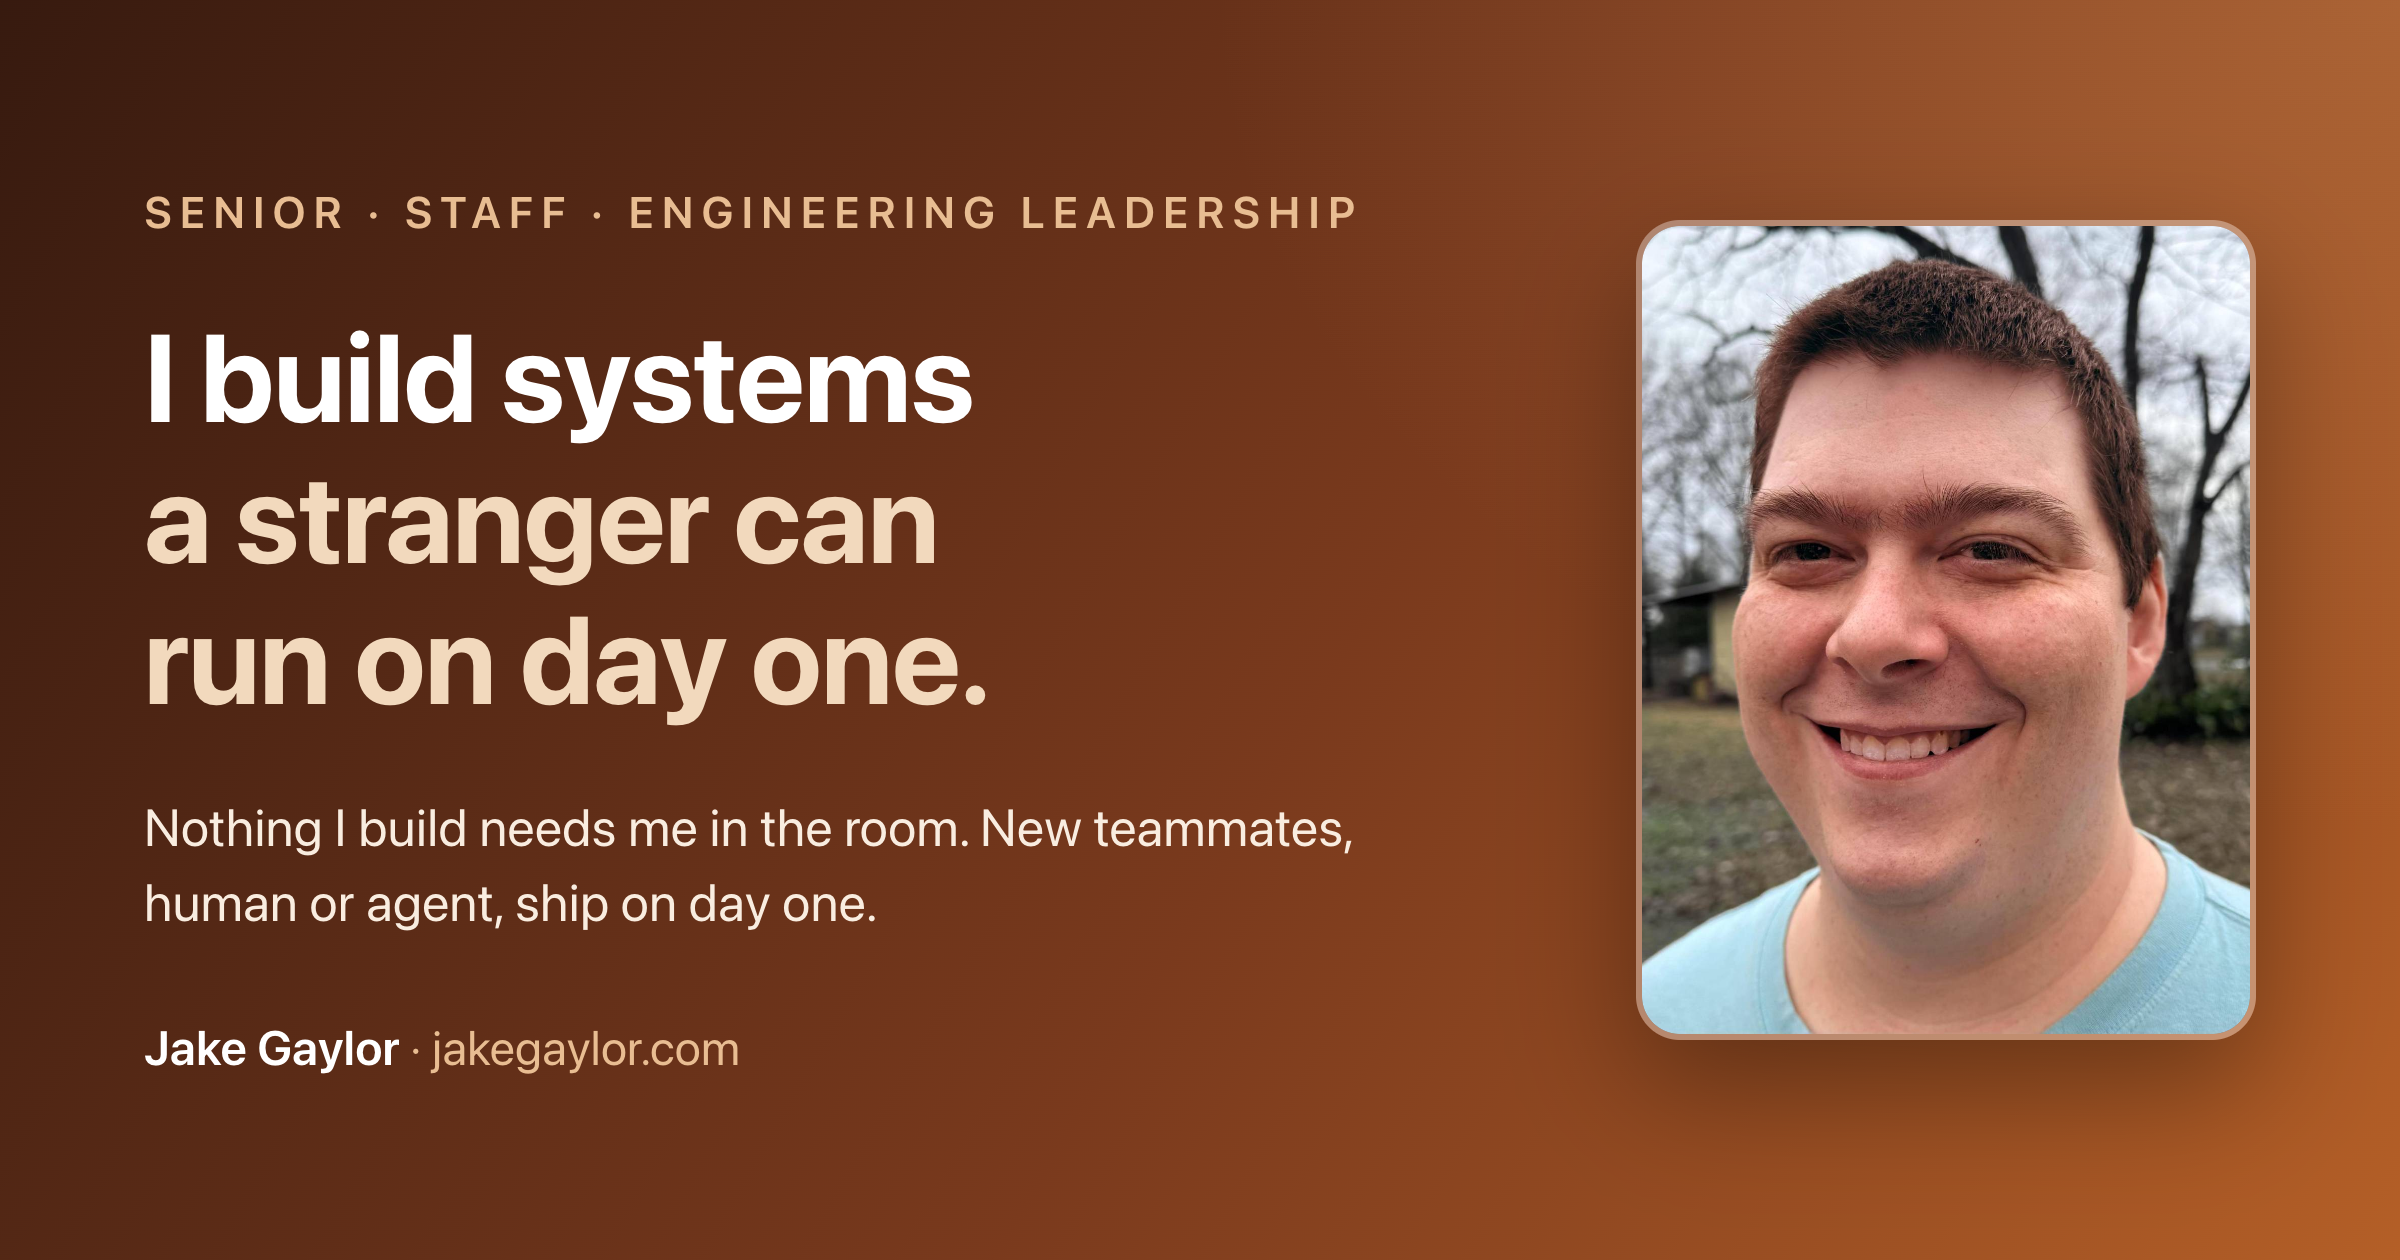
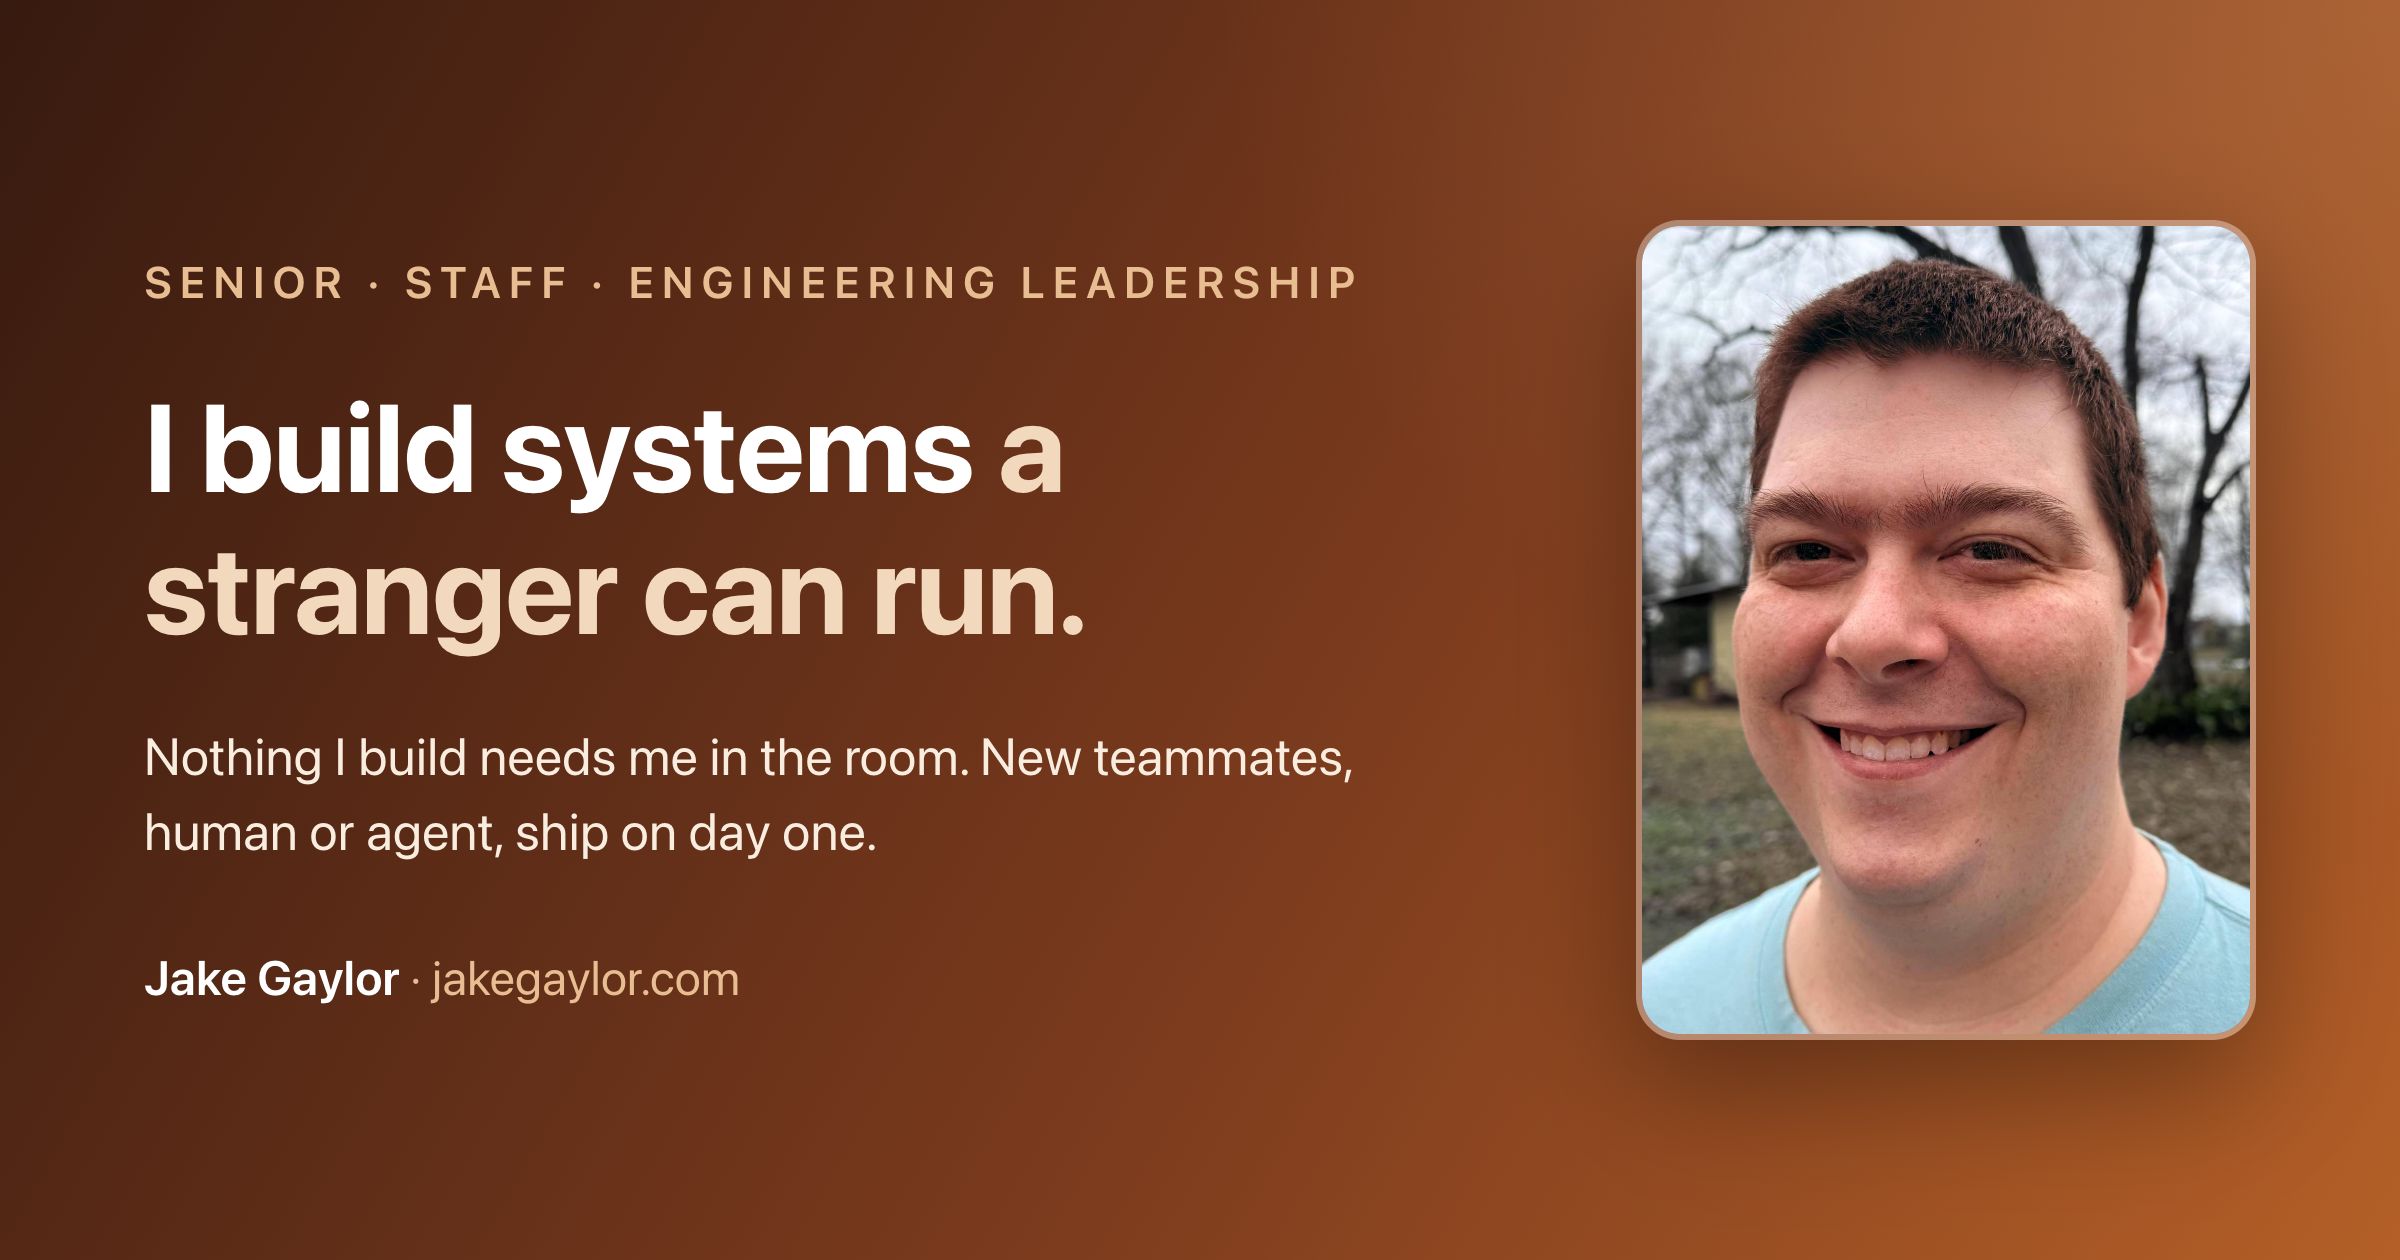
home: headline trims to a stranger can run, day one lands once
The subheader supplies the deadline, so the H1, meta descriptions,
and og-card (v=7) drop the duplicate ending.

diff --git a/_includes/layouts/home.html b/_includes/layouts/home.html
@@ -9,10 +9,10 @@
       front matter; defaults below keep the homepage values as the fallback.
     {%- endcomment -%}
     {%- assign pageTitle = title | default: "Jake Gaylor · builds systems a stranger can run on day one" -%}
-    {%- assign pageDescription = description | default: "Jake Gaylor is a staff-level platform, DevEx, and AI-infrastructure engineer who builds systems a stranger can run on day one. Nothing he builds needs him in the room. New teammates, human or agent, ship on day one. Open to senior, staff, and engineering leadership roles." -%}
-    {%- assign pageSocialDescription = socialDescription | default: "I build systems a stranger can run on day one. Nothing I build needs me in the room. New teammates, human or agent, ship on day one. The receipts are on the page." -%}
+    {%- assign pageDescription = description | default: "Jake Gaylor is a staff-level platform, DevEx, and AI-infrastructure engineer who builds systems a stranger can run. Nothing he builds needs him in the room. New teammates, human or agent, ship on day one. Open to senior, staff, and engineering leadership roles." -%}
+    {%- assign pageSocialDescription = socialDescription | default: "I build systems a stranger can run. Nothing I build needs me in the room. New teammates, human or agent, ship on day one. The receipts are on the page." -%}
     {%- assign pageCanonical = canonicalPath | default: page.url -%}
-    {%- assign pageOgImage = og_image | default: "/images/og-card.jpg?v=6" -%}
+    {%- assign pageOgImage = og_image | default: "/images/og-card.jpg?v=7" -%}
     {%- assign pageOgImageAlt = og_image_alt | default: "Jake Gaylor" -%}
     <title>{{ pageTitle }}</title>
     <meta name="description" content="{{ pageDescription }}" />

diff --git a/index.html b/index.html
@@ -22,7 +22,7 @@ layout: layouts/home.html
     </p>
     <h1 class="text-3xl md:text-5xl font-bold mb-3 leading-tight">
       I build systems
-      <span class="text-transparent bg-clip-text bg-gradient-to-r from-brand-200 to-white"> a stranger can run on day one.</span>
+      <span class="text-transparent bg-clip-text bg-gradient-to-r from-brand-200 to-white"> a stranger can run.</span>
     </h1>
     <p class="text-lg md:text-xl text-brand-100 mb-5 max-w-4xl">
       Nothing I build needs me in the room. New teammates, human or agent, ship on day one.

diff --git a/_includes/layouts/main.html b/_includes/layouts/main.html
@@ -20,7 +20,7 @@
         {%- assign ogImage = image -%}
         {%- assign ogImageAlt = image_alt | default: pageTitle -%}
     {%- else -%}
-        {%- assign ogImage = "/images/og-card.jpg?v=6" -%}
+        {%- assign ogImage = "/images/og-card.jpg?v=7" -%}
         {%- assign ogImageAlt = "Jake Gaylor" -%}
     {%- endif -%}
     <meta property="og:type" content="article" />
